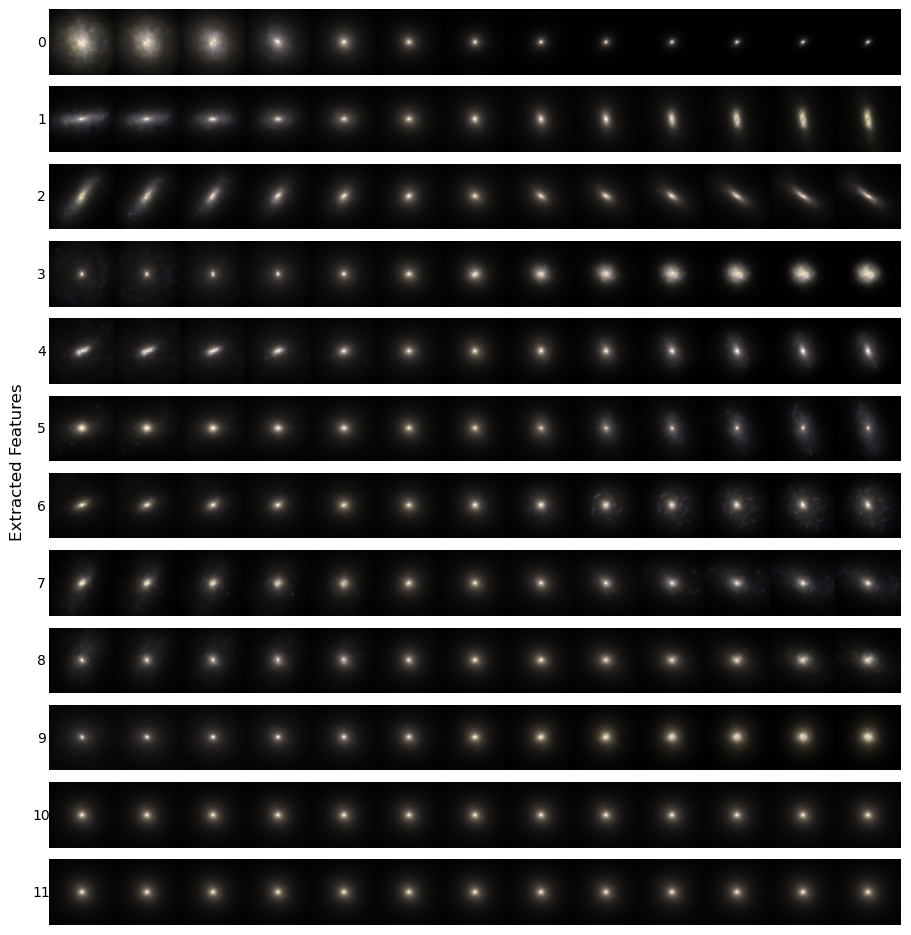
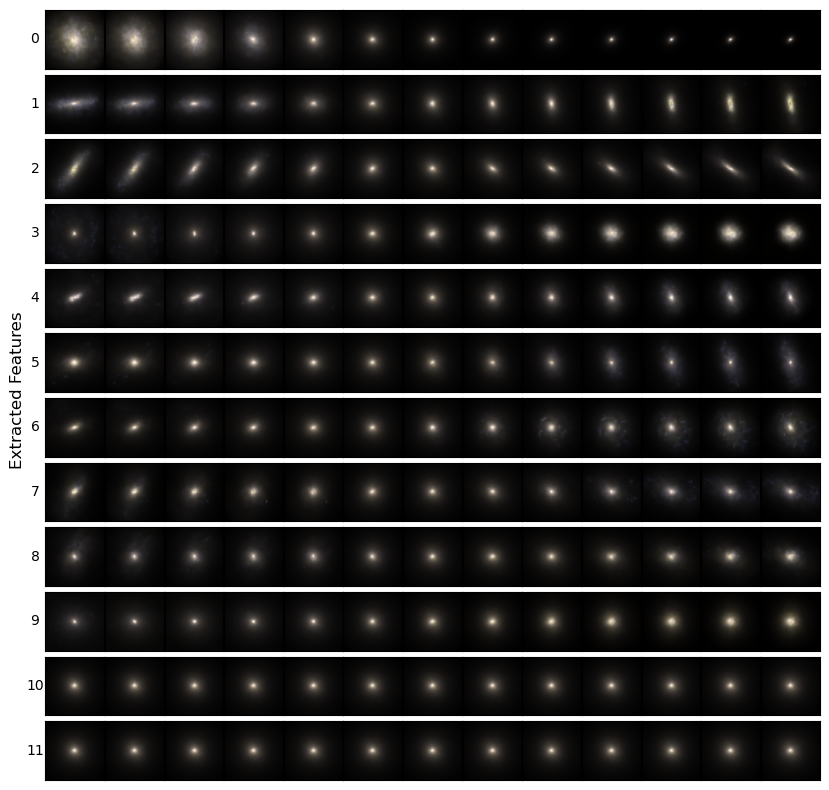
Code

diff --git a/feature_distribution.py b/feature_distribution.py
@@ -25,64 +25,125 @@ from scipy.interpolate import interpn
 
 
 
-encoding_dim = 25
+encoding_dim = 30
 run = 1
-epochs = 200
+beta = 0.0001
+beta_name = "0001"
+epochs = 300
 batch_size = 32
 
 
+
+
+# load structural and physical properties into dataframes
+structure_properties = pd.read_csv("Galaxy Properties/Eagle Properties/structure_propeties.csv", comment="#")
+physical_properties = pd.read_csv("Galaxy Properties/Eagle Properties/physical_properties.csv", comment="#")
+
+# dataframe for all properties
+all_properties = pd.merge(structure_properties, physical_properties, on="GalaxyID")
+
+# load the non parametric properties (restructure the dataframe to match the others)
+non_parametric_properties = pd.read_hdf("Galaxy Properties/Eagle Properties/Ref100N1504.hdf5", key="galface/r")
+non_parametric_properties = non_parametric_properties.reset_index()
+non_parametric_properties = non_parametric_properties.sort_values(by="GalaxyID")
+
+# add the non parametric properties to the other properties dataframe
+all_properties = pd.merge(all_properties, non_parametric_properties, on="GalaxyID")
+
+
+# find all bad fit galaxies
+bad_fit = all_properties[((all_properties["flag_r"] == 1) |
+                          (all_properties["flag_r"] == 4) |
+                          (all_properties["flag_r"] == 5) |
+                          (all_properties["flag_r"] == 6))].index.tolist()
+
+# remove those galaxies
+for galaxy in bad_fit:
+    all_properties = all_properties.drop(galaxy, axis=0)
+
+# reset the index values
+all_properties = all_properties.reset_index(drop=True)
+
+
+print(all_properties)
+
+
+
+
+
+
+
+# # extracted_features = np.load("Variational Eagle/Extracted Features/Fully Balanced Mean/" + str(encoding_dim) + "_feature_" + str(epochs) + "_epoch_" + str(batch_size) + "_bs_features_" + str(run) + ".npy")[0]
+# extracted_features = np.load("Variational Eagle/Extracted Features/Final/bce_latent_" + str(encoding_dim) + "_beta_" + beta_name + "_epoch_" + str(epochs) + "_" + str(run) + ".npy")[0]
+#
+# print(extracted_features.shape)
+#
+# fig, axs = plt.subplots(6, 5, figsize=(20, 24))
+#
+# for i in range(0, 5):
+#
+#     sns.histplot(x=extracted_features.T[i],ax=axs[0][i], bins=50)
+#     sns.histplot(x=extracted_features.T[i+5],ax=axs[1][i], bins=50)
+#     sns.histplot(x=extracted_features.T[i+10],ax=axs[2][i], bins=50)
+#     sns.histplot(x=extracted_features.T[i+15],ax=axs[3][i], bins=50)
+#     sns.histplot(x=extracted_features.T[i+20],ax=axs[4][i], bins=50)
+#     sns.histplot(x=extracted_features.T[i+25],ax=axs[5][i], bins=50)
+#     # sns.histplot(x=extracted_features.T[i+30],ax=axs[6][i], bins=50)
+#
+#     axs[0][i].set_xlabel("Feature " + str(i))
+#     axs[1][i].set_xlabel("Feature " + str(i+5))
+#     axs[2][i].set_xlabel("Feature " + str(i+10))
+#     axs[3][i].set_xlabel("Feature " + str(i+15))
+#     axs[4][i].set_xlabel("Feature " + str(i+20))
+#     axs[5][i].set_xlabel("Feature " + str(i+25))
+#     # axs[6][i].set_xlabel("Feature " + str(i+30))
+#
+#     for j in range(0, 5):
+#         axs[j][i].set_ylabel("")
+#
+#
+# np.set_printoptions(precision=3)
+#
+# print(np.log10(extracted_features.T[3]))
+# print(np.format_float_positional(np.min(extracted_features.T[3]), precision=20))
+# print(np.max(extracted_features.T[3]))
+#
+# plt.savefig("Variational Eagle/Plots/feature_distributions_" + str(encoding_dim) + "_" + str(run), bbox_inches='tight')
+# plt.show()
+
+
+
+
+
+
 # extracted_features = np.load("Variational Eagle/Extracted Features/Fully Balanced Mean/" + str(encoding_dim) + "_feature_" + str(epochs) + "_epoch_" + str(batch_size) + "_bs_features_" + str(run) + ".npy")[0]
-extracted_features = np.load("Variational Eagle/Extracted Features/Final/bce_latent_35_beta_0001_epoch_300_1.npy")[0]
+extracted_features = np.load("Variational Eagle/Extracted Features/Final/bce_latent_" + str(encoding_dim) + "_beta_" + beta_name + "_epoch_" + str(epochs) + "_" + str(run) + ".npy")[0]
+extracted_features = extracted_features[:len(all_properties)]
+extracted_features_switch = extracted_features.T
+
+# perform pca on the extracted features
+pca = PCA(n_components=12).fit(extracted_features)
+extracted_features = pca.transform(extracted_features)
+extracted_features = extracted_features[:len(all_properties)]
+extracted_features_switch = extracted_features.T
 
 print(extracted_features.shape)
 
-# standard normal distribution
-# standard_normal = np.random.normal(0, 1, size=10000)
+fig, axs = plt.subplots(3, 4, figsize=(20, 24))
 
-fig, axs = plt.subplots(5, 5, figsize=(20, 20))
-
-for i in range(0, 5):
+for i in range(0, 4):
 
     sns.histplot(x=extracted_features.T[i],ax=axs[0][i], bins=50)
-    sns.histplot(x=extracted_features.T[i+5],ax=axs[1][i], bins=50)
-    sns.histplot(x=extracted_features.T[i+10],ax=axs[2][i], bins=50)
-    sns.histplot(x=extracted_features.T[i+15],ax=axs[3][i], bins=50)
-    sns.histplot(x=extracted_features.T[i+20],ax=axs[4][i], bins=50)
-
-    # weights = np.ones_like(extracted_features.T[i]) * len(extracted_features.T[i])
-
-    # sns.kdeplot(x=standard_normal, ax=axs[i][0], color="black")
-    # sns.kdeplot(x=extracted_features.T[i], weights=weights, ax=axs[0][i], color="black")
-
+    sns.histplot(x=extracted_features.T[i+4],ax=axs[1][i], bins=50)
+    sns.histplot(x=extracted_features.T[i+8],ax=axs[2][i], bins=50)
 
     axs[0][i].set_xlabel("Feature " + str(i))
-    axs[1][i].set_xlabel("Feature " + str(i+5))
-    axs[2][i].set_xlabel("Feature " + str(i+10))
-    axs[3][i].set_xlabel("Feature " + str(i+15))
-    axs[4][i].set_xlabel("Feature " + str(i+20))
+    axs[1][i].set_xlabel("Feature " + str(i+4))
+    axs[2][i].set_xlabel("Feature " + str(i+8))
 
     for j in range(0, 5):
         axs[j][i].set_ylabel("")
 
-
-# fig, axs = plt.subplots(1, 1, figsize=(8, 5))
-#
-# # sns.histplot(x=np.log10(extracted_features.T[0]), ax=axs, bins=50)
-# sns.histplot(x=extracted_features.T[0], ax=axs, bins=50, kde=True, fill=False, color="black")
-
-# standard_normal = np.random.normal(0, 1, size=10000)
-# sns.histplot(x=standard_normal, ax=axs, bins=50, kde=True, fill=False, color="black")
-
-
-# std_norm_x = np.linspace(-4, 4, 1000)
-# std_norm_y = 1000 * (1 / np.sqrt(2 * np.pi)) * np.exp(-0.5 * (std_norm_x ** 2))
-#
-# plt.plot(std_norm_x, std_norm_y, color="black")
-
-
-# weights = np.ones_like(extracted_features.T[0]) * len(extracted_features.T[0])
-
-# sns.kdeplot(extracted_features.T[0], common_norm=False, ax=axs, color="black")
 
 np.set_printoptions(precision=3)
 
@@ -90,5 +151,5 @@ print(np.log10(extracted_features.T[3]))
 print(np.format_float_positional(np.min(extracted_features.T[3]), precision=20))
 print(np.max(extracted_features.T[3]))
 
-plt.savefig("Variational Eagle/Plots/feature_distributions_0001", bbox_inches='tight')
+plt.savefig("Variational Eagle/Plots/feature_distributions_" + str(encoding_dim) + "_" + str(run) + "_pca", bbox_inches='tight')
 plt.show()

diff --git a/comparison-extracted_features.py b/comparison-extracted_features.py
@@ -71,7 +71,7 @@ all_properties = all_properties.reset_index(drop=True)
 
 print(all_properties)
 
-# print(all_properties[all_properties["smoothness"] <= 0].sort_values(by="smoothness"))
+print(all_properties.sort_values(by="MassType_Star"))
 
 
 
@@ -146,7 +146,6 @@ pca = PCA(n_components=12).fit(extracted_features)
 extracted_features = pca.transform(extracted_features)
 extracted_features = extracted_features[:len(all_properties)]
 extracted_features_switch = extracted_features.T
-
 
 
 
@@ -396,14 +395,13 @@ def exponential(x, a, b, c):
 #     return axs
 
 
-def density_scatter(x ,y, axs, sort=True, bins=20, **kwargs):
+def density_scatter(x ,y, axs, **kwargs):
 
     xy = np.vstack([x, y])
     z = gaussian_kde(xy)(xy)
 
-    if sort:
-        idx = z.argsort()
-        x, y, z = x[idx], y[idx], z[idx]
+    idx = z.argsort()
+    x, y, z = x[idx], y[idx], z[idx]
 
     axs.scatter(x, y, c=z, **kwargs)
     return axs
